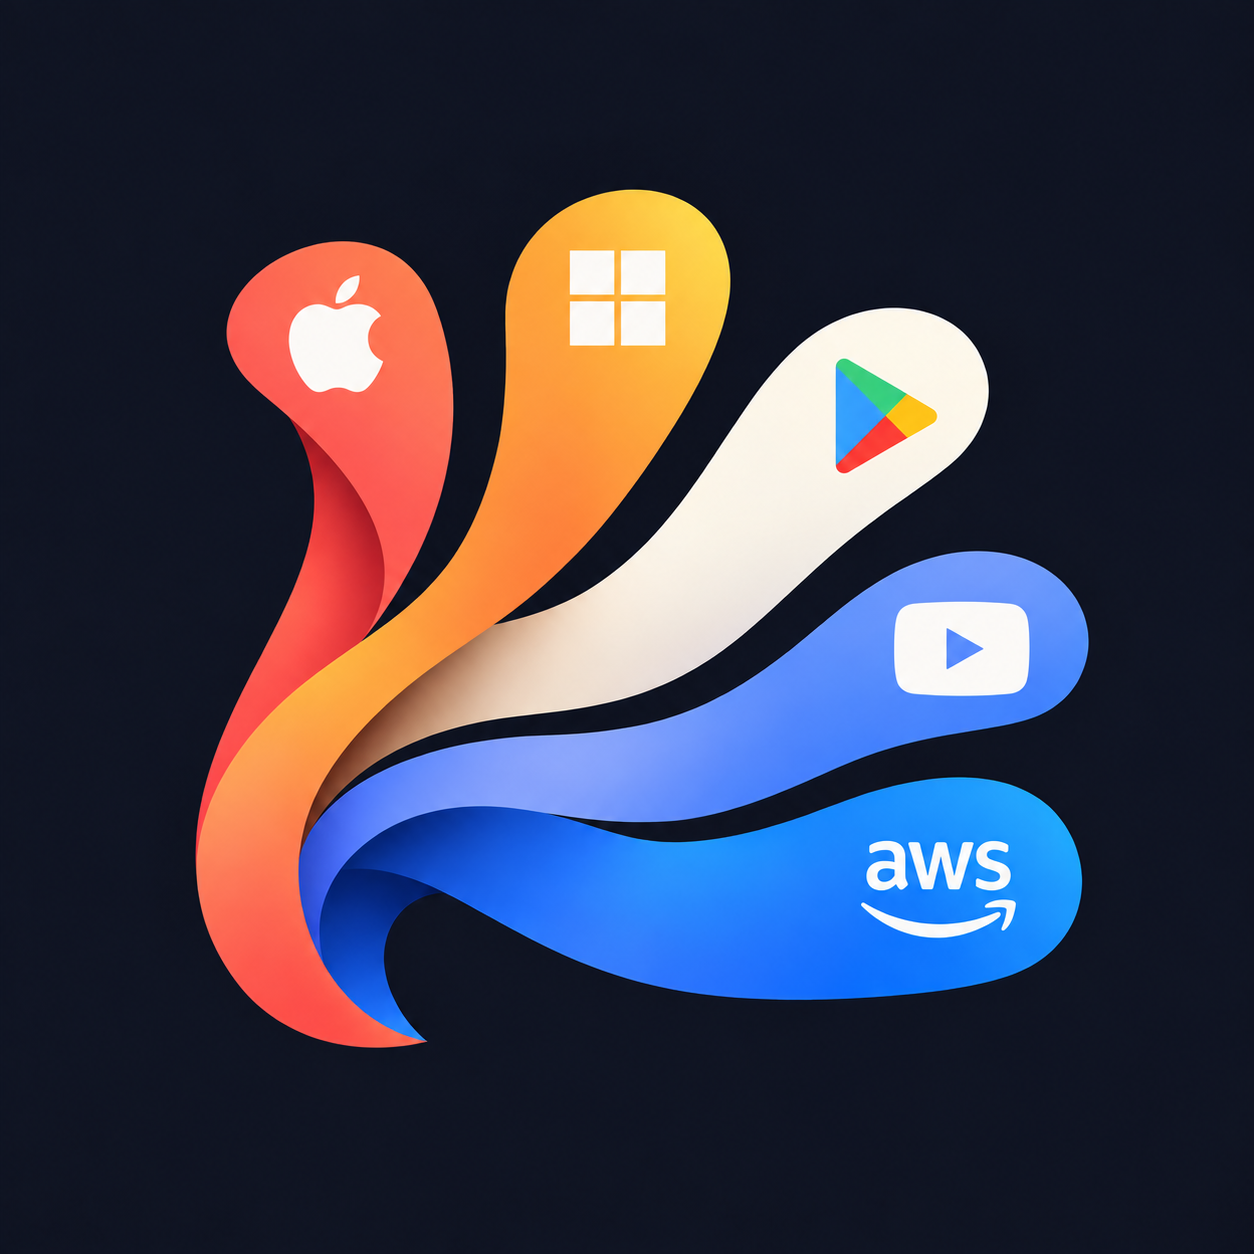
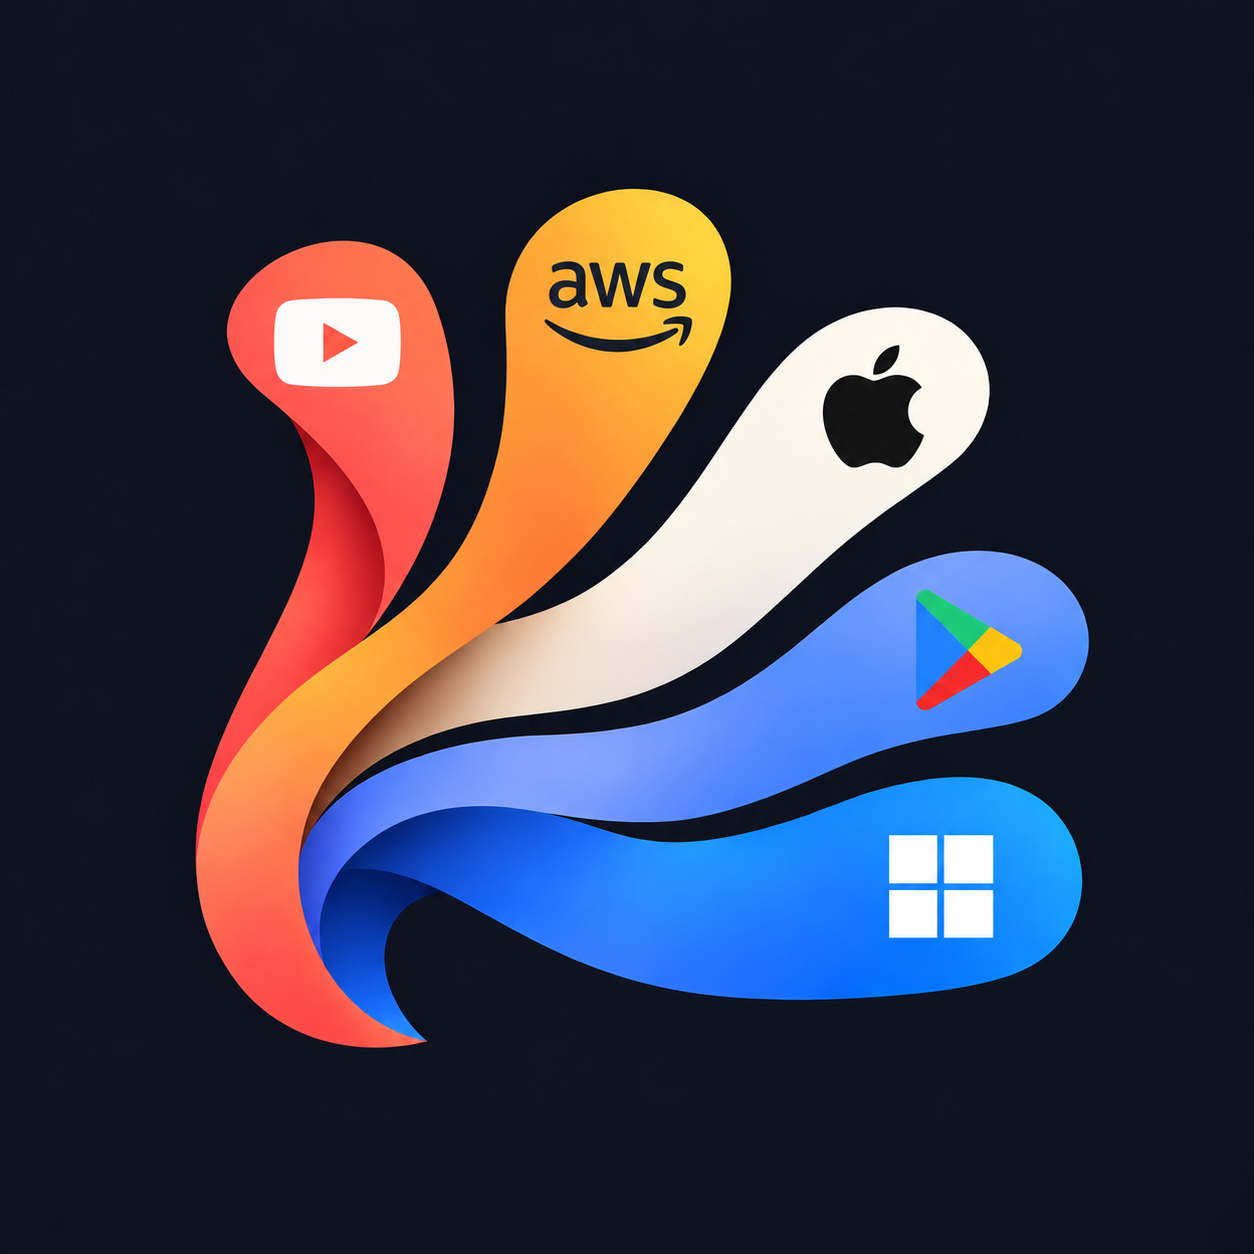
Match destination artwork to platform brand colors

diff --git a/CHANGELOG.md b/CHANGELOG.md
@@ -3,6 +3,12 @@
 Notable changes are recorded here. A version entry describes the source;
 available release tags and assets are listed on GitHub separately.
 
+## 0.3.1
+
+- Align destination artwork with platform colors: YouTube on red, AWS on
+  yellow, black Apple on ivory, Google Play on periwinkle, and Windows on blue.
+- Keep the compact plugin icon free of platform emblems.
+
 ## 0.3.0
 
 - Prepare Delivery as a standalone package for Codex and Claude Code, with
